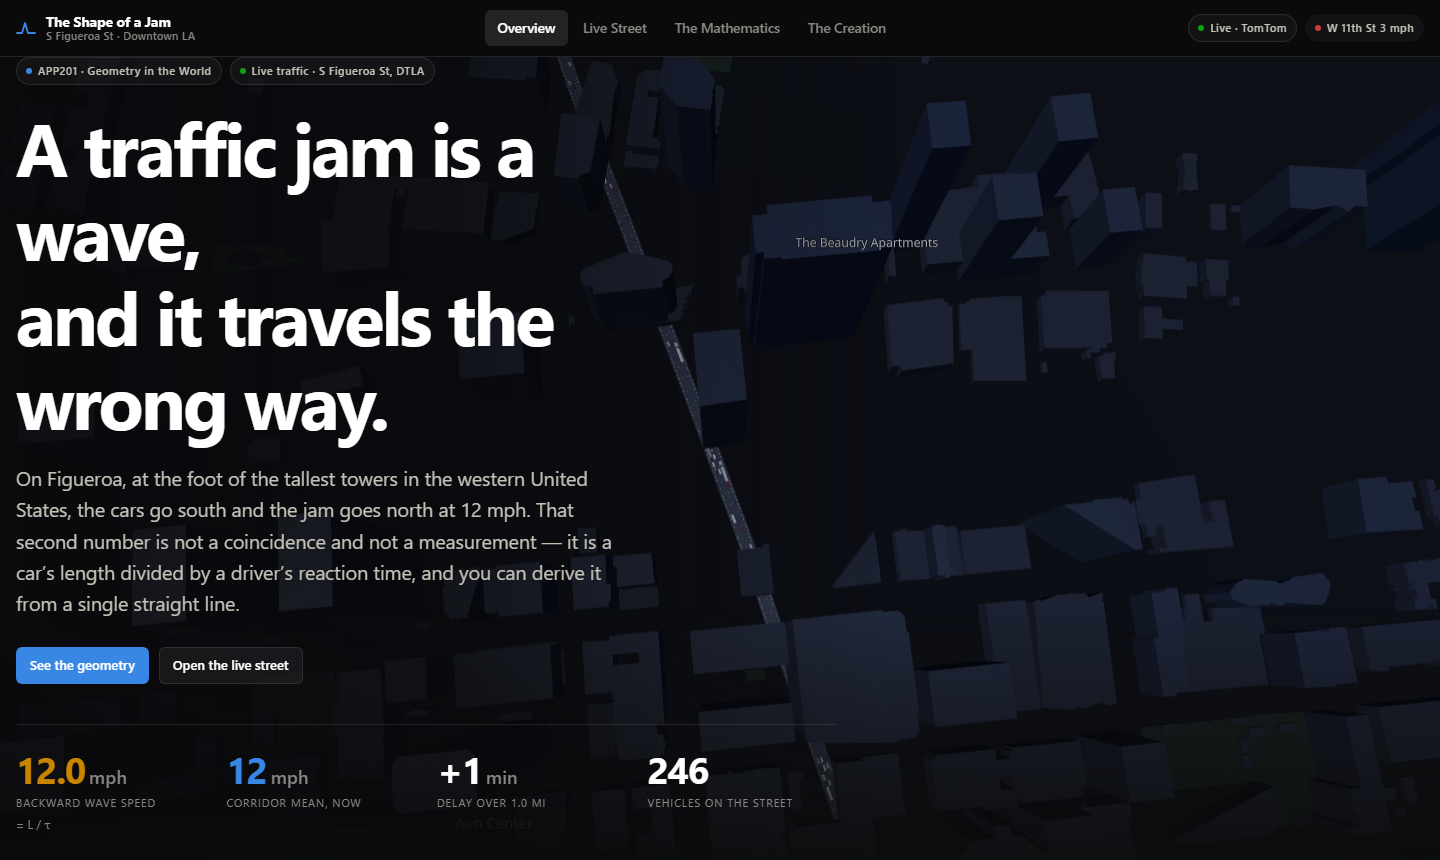
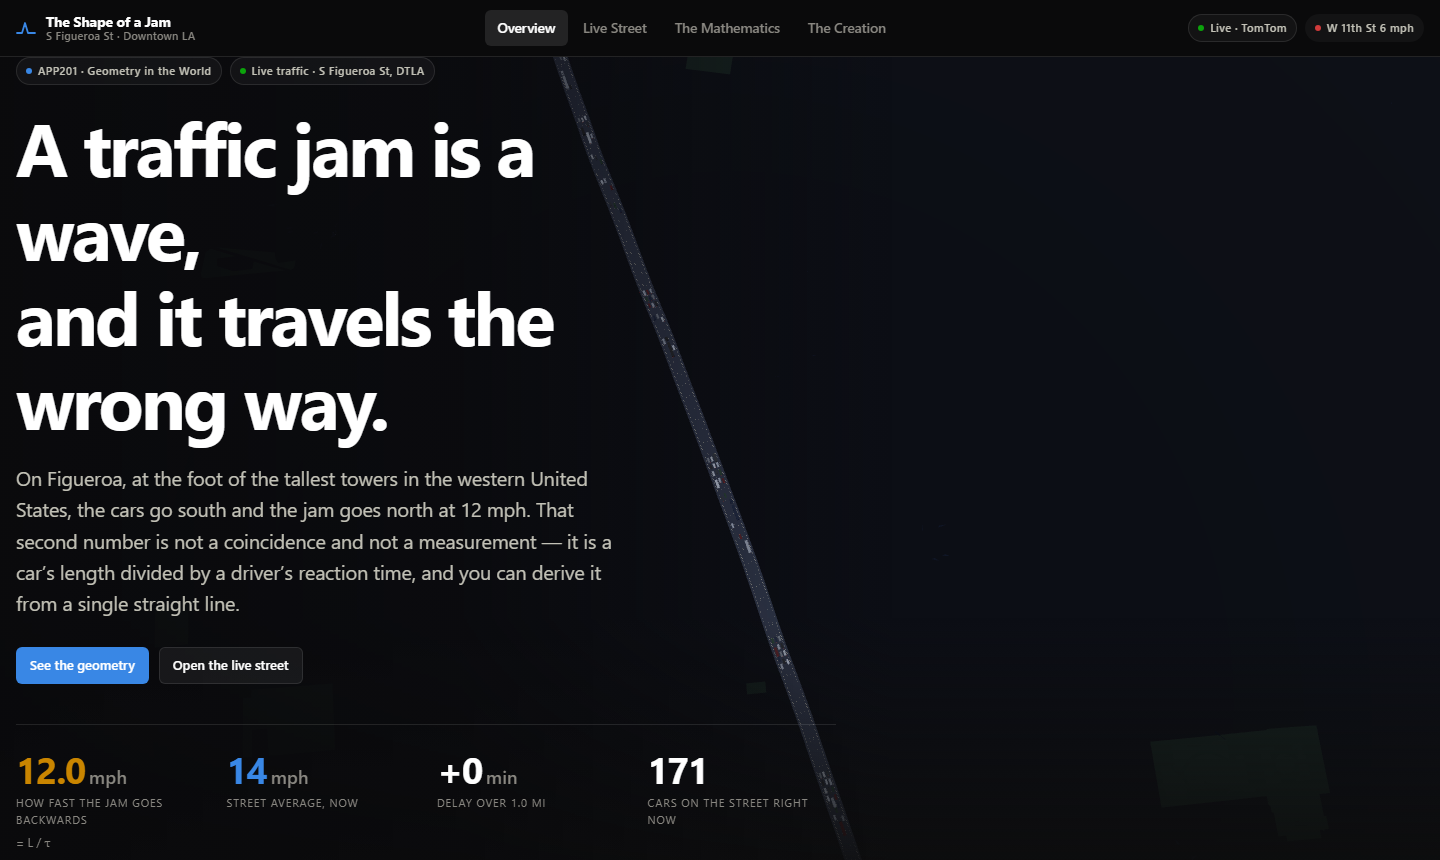
feat(scene): hide the buildings by default
They are real OpenStreetMap footprints at real heights and they are accurate,
but on a street canyon they are in the way: 300 m towers either side hide the
one thing the view exists to show, which is the traffic.

Off by default now, everywhere. The "Show buildings" button keeps them one
click away, and the data stays in the repo, so nothing is lost - the scene
just leads with the street grid and the cars instead.

README screenshots regenerated to match.

diff --git a/src/sections/LiveCorridor.tsx b/src/sections/LiveCorridor.tsx
@@ -4,7 +4,7 @@ import { CorridorProfile } from '../components/charts/CorridorProfile';
 import { FundamentalDiagramChart } from '../components/charts/FundamentalDiagram';
 import { RoadScene, type CameraMode, type ColorMode } from '../components/scene/RoadScene';
 import { VehicleInspector } from '../components/VehicleInspector';
-import { BUILDING_COUNT, BUILDINGS_REMOVED } from '../components/scene/Buildings';
+import { BUILDING_COUNT } from '../components/scene/Buildings';
 import type { TrafficHook } from '../lib/useTraffic';
 import type { SimulationHook } from '../lib/useSimulation';
 import {
@@ -40,7 +40,11 @@ export function LiveCorridor({
   const [cameraMode, setCameraMode] = useState<CameraMode>('street');
   const [colorMode, setColorMode] = useState<ColorMode>('paint');
   const [selectedId, setSelectedId] = useState<number | null>(null);
-  const [showBuildings, setShowBuildings] = useState(true);
+  // Buildings are off by default. They are real OpenStreetMap footprints and
+  // they are accurate, but 300 m towers either side of a street canyon hide
+  // the one thing the view exists to show, which is the traffic. The toggle
+  // keeps them one click away.
+  const [showBuildings, setShowBuildings] = useState(false);
   const rightColRef = useRef<HTMLDivElement>(null);
 
   // Bring the inspector into view when a vehicle is picked: on a short screen
@@ -152,13 +156,7 @@ export function LiveCorridor({
 
               <p className="muted" style={{ fontSize: 11.5, marginTop: 12, marginBottom: 0 }}>
                 {reading.note ??
-                  `${BUILDING_COUNT} real OpenStreetMap buildings beside the real OSM centreline of Figueroa` +
-                    (reading.centerlineSource === 'gps'
-                      ? `, refined by ${reading.gpsPointCount.toLocaleString()} GPS points returned live by TomTom.`
-                      : '.') +
-                    (BUILDINGS_REMOVED > 0
-                      ? ` ${BUILDINGS_REMOVED} footprint${BUILDINGS_REMOVED === 1 ? '' : 's'} overlapping the roadway removed.`
-                      : '')}
+                  `The real street layout of downtown LA, ${reading.centerlineSource === 'gps' ? `with Figueroa itself placed by ${reading.gpsPointCount.toLocaleString()} GPS points returned live by TomTom` : 'from OpenStreetMap'}. Buildings are hidden so you can see the traffic — the button below puts them back.`}
               </p>
             </Panel>
 
@@ -293,7 +291,7 @@ export function LiveCorridor({
                 </button>
               </div>
               <p className="muted" style={{ fontSize: 11.5, margin: '10px 2px 0', lineHeight: 1.5 }}>
-                Real street, real buildings, real signal timing, and the clock runs at{' '}
+                Real street, real signal timing, and the clock runs at{' '}
                 <strong>real time</strong> — a car doing {mpsToMph(analysis.meanSpeed).toFixed(0)} mph
                 on screen is crossing a block in the time it really takes. Each vehicle&rsquo;s
                 free-flow speed comes from what TomTom reports for the block it is on, so the
@@ -493,9 +491,10 @@ export function LiveCorridor({
             <Panel>
               <strong style={{ display: 'block', marginBottom: 8 }}>The street is real</strong>
               <p style={{ fontSize: 13.5, margin: 0 }}>
-                The road mesh is built from the GPS trace TomTom returns with each reading, and the{' '}
-                {BUILDING_COUNT} buildings are real OpenStreetMap footprints at their real heights,
-                in the same metre grid. The Wilshire Grand is 335 m here because it is 335 m.
+                The road is built from the GPS trace TomTom returns with each reading, laid on the
+                real street grid of downtown — the cross streets, the 110 ramps, the sidewalks. The{' '}
+                {BUILDING_COUNT} buildings around it are real too, at their real heights, but they
+                are hidden by default because 300 m towers either side of a street hide the traffic.
               </p>
             </Panel>
             <Panel>

diff --git a/src/sections/Overview.tsx b/src/sections/Overview.tsx
@@ -5,7 +5,6 @@ import type { TrafficHook } from '../lib/useTraffic';
 import type { SimulationHook } from '../lib/useSimulation';
 import { mpsToMph, waveSpeed, mToFt } from '../lib/trafficMath';
 import { CORRIDOR_LENGTH } from '../data/corridor';
-import { BUILDING_COUNT } from '../components/scene/Buildings';
 
 export function Overview({
   traffic,
@@ -33,6 +32,7 @@ export function Overview({
             colorMode="paint"
             selectedId={null}
             onSelect={() => {}}
+            showBuildings={false}
             style={{ width: '100%', height: '100%' }}
           />
         </div>
@@ -370,8 +370,8 @@ export function Overview({
                     <td style={{ textAlign: 'right' }}>3</td>
                   </tr>
                   <tr>
-                    <td>Real buildings rendered</td>
-                    <td style={{ textAlign: 'right' }}>{BUILDING_COUNT}</td>
+                    <td>Real street ways mapped</td>
+                    <td style={{ textAlign: 'right' }}>1,955</td>
                   </tr>
                   <tr>
                     <td>Tallest neighbour</td>

diff --git a/src/components/scene/RoadScene.tsx b/src/components/scene/RoadScene.tsx
@@ -475,7 +475,7 @@ export function RoadScene({
   colorMode,
   selectedId,
   onSelect,
-  showBuildings = true,
+  showBuildings = false,
   showLabels = true,
   className,
   style,

diff --git a/README.md b/README.md
@@ -17,7 +17,7 @@ That number isn't measured. It's a car's length divided by a driver's reaction t
 
 ![Live traffic](https://img.shields.io/badge/traffic-live%20from%20TomTom-0ca30c?style=flat-square)
 ![Maths checks](https://img.shields.io/badge/maths%20checks-26%20passing-199e70?style=flat-square)
-![Buildings](https://img.shields.io/badge/real%20buildings-376-9085e9?style=flat-square)
+![Signals](https://img.shields.io/badge/live%20signals-10%20intersections-9085e9?style=flat-square)
 ![Street network](https://img.shields.io/badge/real%20OSM%20ways-1%2C955-d95926?style=flat-square)
 ![Course](https://img.shields.io/badge/APP201-Geometry%20in%20the%20World-c98500?style=flat-square)
 
@@ -109,13 +109,13 @@ That's the point I most wanted to make. The model isn't a statement about traffi
 
 ## 🌆 Everything here is real
 
-![Downtown from above](docs/images/03-aerial.png)
+![The street from above](docs/images/03-aerial.png)
 
 | What | Where it comes from |
 |:--|:--|
 | 🚦 **Traffic speeds** | TomTom live, all 10 intersections, refreshed every 2 minutes |
 | 🛣 **The street** | The real OpenStreetMap centreline of S Figueroa, nudged by the GPS points TomTom returns |
-| 🏙 **376 buildings** | Real OSM footprints at their real heights — the Wilshire Grand is 335 m because it is |
+| 🏙 **376 buildings** | Real OSM footprints at real heights — off by default, because 300 m towers either side of a street hide the traffic. The button puts them back |
 | 🗺 **1,955 street ways** | The cross-street grid, the 110 ramps, 921 sidewalks, Pershing Square |
 | ⏱ **Signal timing** | 90-second cycles on an offset progression, how LADOT runs the downtown grid |
 | 🚗 **The cars** | Simulated — a traffic API tells you how fast things move, never what they are. Types are drawn from the real downtown mix at true sizes |
